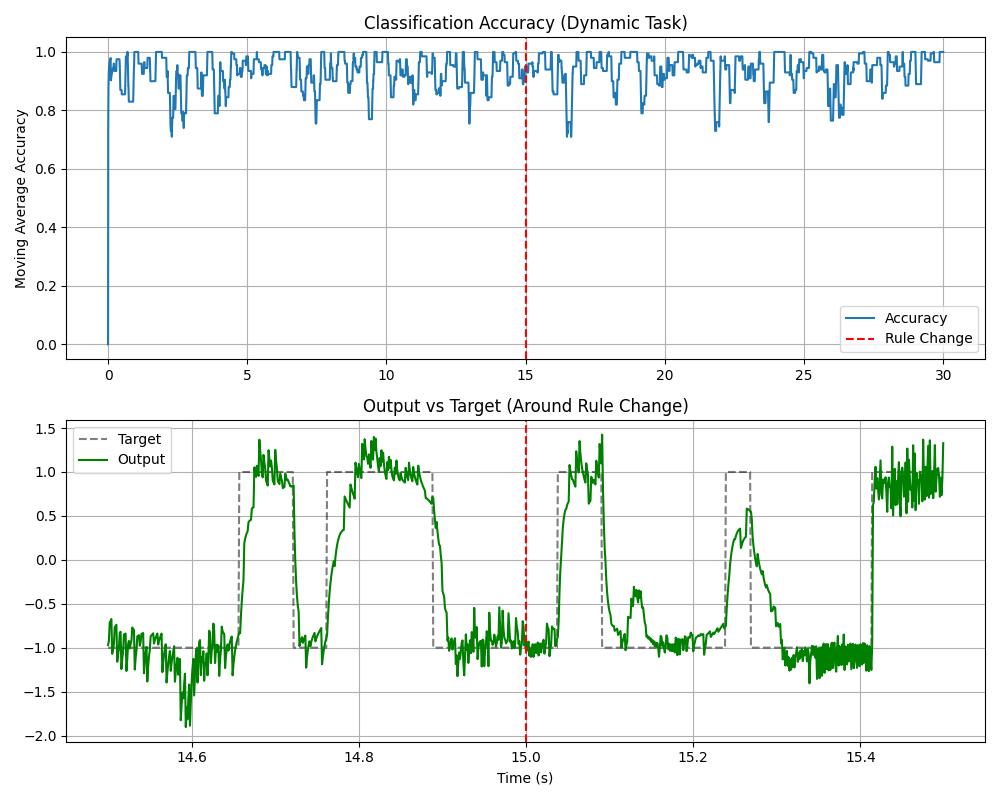
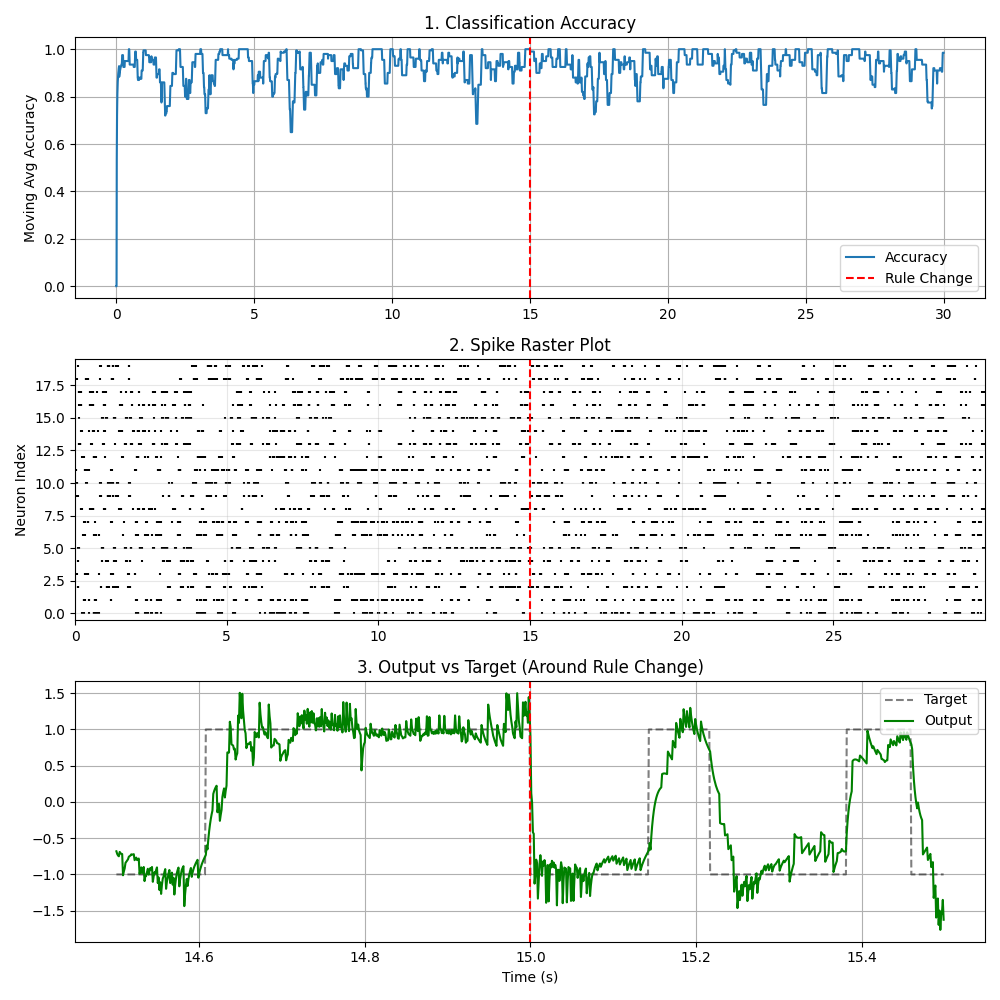
1/14動作確認済み

diff --git a/src/Brendel_multiclass.py b/src/Brendel_multiclass.py
@@ -89,31 +89,24 @@ def train_snn_structure(dt, leak, epsr, epsf, alpha, beta, mu, Nneuron, Nx, Thre
     print("Phase 1 Completed.")
     return F, C
 
-def train_readout_task(F, C, Nneuron, Nx, dt, leak, Thresh):
-    """
-    Phase 2: 固定されたSNNを使って分類タスクを学習する
-    (ラスタープロット用のスパイク記録を追加)
-    """
-    print("Phase 2: Training Readout for Classification...")
+def train_readout_multiclass(F, C, Nneuron, Nx, dt, leak, Thresh, Nclasses):
+    print(f"Phase 2: Training Readout for {Nclasses}-Class Classification...")
 
-    # タスク設定
-    TimeT = 30000        # 全ステップ数
-    SwitchTime = 15000   # ルール変更タイミング
-    lr_readout = 0.02    # 学習率
+    TimeT = 30000        
+    SwitchTime = 15000   
+    lr_readout = 0.02    
     
-    W_out = np.zeros(Nneuron)
+    W_out = np.zeros((Nclasses, Nneuron))
     
-    # 状態変数リセット
     V = np.zeros(Nneuron)
     rO = np.zeros(Nneuron)
     O = 0
     k = 0
     
-    # ★スパイク記録用リスト
     spike_times = []
     spike_neurons = []
     
-    # テスト用入力データの生成
+    # 入力データ生成
     sigma = 30
     t_kern = np.arange(1, 1001)
     w = (1 / (sigma * np.sqrt(2 * np.pi))) * np.exp(-((t_kern - 500)**2) / (2 * sigma**2))
@@ -125,14 +118,18 @@ def train_readout_task(F, C, Nneuron, Nx, dt, leak, Thresh):
     for d in range(Nx):
         Input[d, :] = A * convolve(Input[d, :], w, mode='same')
 
-    # 記録用
+    # --- 記録用配列の初期化 ---
     rec_target = np.zeros(TimeT)
-    rec_estim = np.zeros(TimeT)
+    rec_estim_class = np.zeros(TimeT)
+    
+    # 【修正1】 全ステップのスコアを保存する配列を作成（サイズ合わせエラー防止のため）
+    rec_scores = np.zeros((TimeT, Nclasses))
+    
     acc_history = []
     acc_buffer = []
 
     for t in range(1, TimeT):
-        # --- SNN更新 (学習なし) ---
+        # --- SNN Update ---
         noise = 0.001 * np.random.randn(Nneuron)
         recurrent_input = np.zeros(Nneuron)
         if O == 1:
@@ -147,8 +144,6 @@ def train_readout_task(F, C, Nneuron, Nx, dt, leak, Thresh):
         if potentials[k_curr] >= 0:
             O = 1
             k = k_curr
-            
-            # ★ここでスパイクを記録
             spike_times.append(t * dt)
             spike_neurons.append(k)
         else:
@@ -158,92 +153,116 @@ def train_readout_task(F, C, Nneuron, Nx, dt, leak, Thresh):
         if O == 1:
             rO[k] += 1.0
 
-        # --- タスク: 動的なターゲット ---
+        # --- Task ---
         inp = Input[:, t-1]
+        
         if t < SwitchTime:
-            label = 1.0 if (inp[0] + inp[1]) > 0 else -1.0 # ルールA
+            # Rule A
+            if inp[0] >= 0 and inp[1] >= 0: label_idx = 0
+            elif inp[0] < 0 and inp[1] >= 0: label_idx = 1
+            elif inp[0] < 0 and inp[1] < 0: label_idx = 2
+            else: label_idx = 3
         else:
-            label = 1.0 if (inp[0] - inp[1]) > 0 else -1.0 # ルールB (変更)
+            # Rule B (Shifted)
+            if inp[0] >= 0 and inp[1] >= 0: label_idx = 1
+            elif inp[0] < 0 and inp[1] >= 0: label_idx = 2
+            elif inp[0] < 0 and inp[1] < 0: label_idx = 3
+            else: label_idx = 0
 
-        # --- 学習 (Delta Rule) ---
-        y_est = np.dot(W_out, rO)
-        error = label - y_est
-        W_out += lr_readout * error * rO
+        target_vec = np.zeros(Nclasses)
+        target_vec[label_idx] = 1.0
+
+        # --- Prediction & Learning ---
+        y_est_vec = np.dot(W_out, rO)
+        pred_idx = np.argmax(y_est_vec)
         
-        # 記録
-        rec_target[t] = label
-        rec_estim[t] = y_est
+        error_vec = target_vec - y_est_vec
+        W_out += lr_readout * np.outer(error_vec, rO)
         
-        is_correct = 1 if np.sign(y_est) == label else 0
+        # --- 記録 ---
+        rec_target[t] = label_idx
+        rec_estim_class[t] = pred_idx
+        
+        # 【修正2】 ここで現在のスコアベクトルをそのまま保存
+        rec_scores[t, :] = y_est_vec
+        
+        is_correct = 1 if pred_idx == label_idx else 0
         acc_buffer.append(is_correct)
         if len(acc_buffer) > 200: acc_buffer.pop(0)
         acc_history.append(np.mean(acc_buffer))
 
-    # ★戻り値にスパイクデータを追加
-    return rec_target, rec_estim, acc_history, SwitchTime, spike_times, spike_neurons
+    # 【修正3】 全スコア配列を返す
+    return rec_target, rec_estim_class, acc_history, SwitchTime, spike_times, spike_neurons, rec_scores
 
 if __name__ == "__main__":
-    # 共通パラメータ
-    Nneuron = 20
+    # ... (パラメータ設定やPhase 1は変更なし) ...
+    Nneuron = 50
     Nx = 2
+    Nclasses = 4
     leak = 50
     dt = 0.001
     Thresh = 0.5
-    
-    # 学習率パラメータ (Efficient Coding用)
     epsr = 0.001
     epsf = 0.0001
     alpha = 0.18
     beta = 1 / 0.9
     mu = 0.02 / 0.9
-    
-    # 1. ネットワーク構築 (Unsupervised)
-    # ここは変更なし
+
+    # Phase 1
     F, C = train_snn_structure(dt, leak, epsr, epsf, alpha, beta, mu, Nneuron, Nx, Thresh)
     
-    # 2. タスク学習 (Supervised / Online)
-    # ★戻り値を受け取る変数を増やす
-    targets, estims, accuracy, switch_t, spk_t, spk_i = train_readout_task(F, C, Nneuron, Nx, dt, leak, Thresh)
+    # Phase 2
+    # 戻り値の名前を scores_all に変更
+    targets, est_classes, accuracy, switch_t, spk_t, spk_i, scores_all = \
+        train_readout_multiclass(F, C, Nneuron, Nx, dt, leak, Thresh, Nclasses)
     
-    # 3. プロット (3段構成に変更)
+    # Phase 3 Plotting
     time_axis = np.arange(len(accuracy)) * dt
     switch_sec = switch_t * dt
     
-    plt.figure(figsize=(10, 10)) # サイズを少し縦長に
+    plt.figure(figsize=(10, 12))
     
-    # --- 上段: 正解率 ---
+    # 1. Accuracy
     plt.subplot(3, 1, 1)
-    plt.plot(time_axis, accuracy, label='Accuracy')
+    plt.plot(time_axis, accuracy, label='Accuracy', color='blue')
     plt.axvline(x=switch_sec, color='r', linestyle='--', label='Rule Change')
-    plt.title('1. Classification Accuracy')
-    plt.ylabel('Moving Avg Accuracy')
-    plt.legend(loc='lower right')
+    plt.title(f'{Nclasses}-Class Classification Accuracy')
+    plt.ylim(0, 1.1)
+    plt.legend()
     plt.grid(True)
 
-    # --- ★中段: ラスタープロット (新規追加) ---
+    # 2. Raster
     plt.subplot(3, 1, 2)
-    # 散布図でプロット (x=時間, y=ニューロンID)
     plt.scatter(spk_t, spk_i, s=1, c='black', marker='|')
     plt.axvline(x=switch_sec, color='r', linestyle='--')
-    plt.title('2. Spike Raster Plot')
-    plt.ylabel('Neuron Index')
-    plt.xlim(0, time_axis[-1]) # 時間軸を他と合わせる
+    plt.title('Spike Raster Plot')
+    plt.xlim(0, time_axis[-1])
     plt.ylim(-0.5, Nneuron - 0.5)
     plt.grid(True, alpha=0.3)
 
-    # --- 下段: 出力波形 (切り替え付近) ---
+    # 3. Class Scores (Zoom)
     plt.subplot(3, 1, 3)
-    vis_range = range(switch_t - 500, switch_t + 500)
-    # インデックスエラー回避のため範囲チェック
-    vis_range = [t for t in vis_range if t < len(targets)]
     
-    plt.plot(np.array(vis_range)*dt, targets[vis_range], 'k--', alpha=0.5, label='Target')
-    plt.plot(np.array(vis_range)*dt, estims[vis_range], 'g', label='Output')
-    plt.axvline(x=switch_sec, color='r', linestyle='--')
-    plt.title('3. Output vs Target (Around Rule Change)')
+    # 【修正4】 インデックス範囲を指定して、時間軸とデータを同じスライスで切り出す
+    start_idx = switch_t - 500
+    end_idx = switch_t + 500
+    
+    # numpyスライスを使うことで shape が確実に一致します
+    # time_axis[start:end] -> shape (1000,)
+    # scores_all[start:end] -> shape (1000, 4)
+    time_zoom = time_axis[start_idx : end_idx]
+    scores_zoom = scores_all[start_idx : end_idx]
+    
+    colors = ['r', 'g', 'b', 'orange']
+    for c in range(Nclasses):
+        plt.plot(time_zoom, scores_zoom[:, c], label=f'Class {c}', color=colors[c], alpha=0.8)
+        
+    plt.axvline(x=switch_sec, color='k', linestyle='--', alpha=0.5)
+    plt.title('Class Scores (Zoom around Rule Change)')
     plt.xlabel('Time (s)')
-    plt.legend(loc='upper right')
+    plt.ylabel('Readout Activity')
+    plt.legend(loc='upper right', fontsize='small')
     plt.grid(True)
     
     plt.tight_layout()
-    plt.savefig('results/Brendel_Binary.png')
+    plt.savefig('results/SNN_Multiclass_Fixed.png')

diff --git a/src/iranai/Brendel_learning.py b/src/iranai/Brendel_learning.py
@@ -3,7 +3,7 @@ import matplotlib.pyplot as plt
 from scipy.signal import convolve
 from scipy.linalg import toeplitz
 import time
-from Brendel_runnet import runnet
+from iranai.Brendel_runnet import runnet
 
 def learning(dt, leak, epsr, epsf, alpha, beta, mu, Nneuron, Nx, Thresh, F, C):
     """
